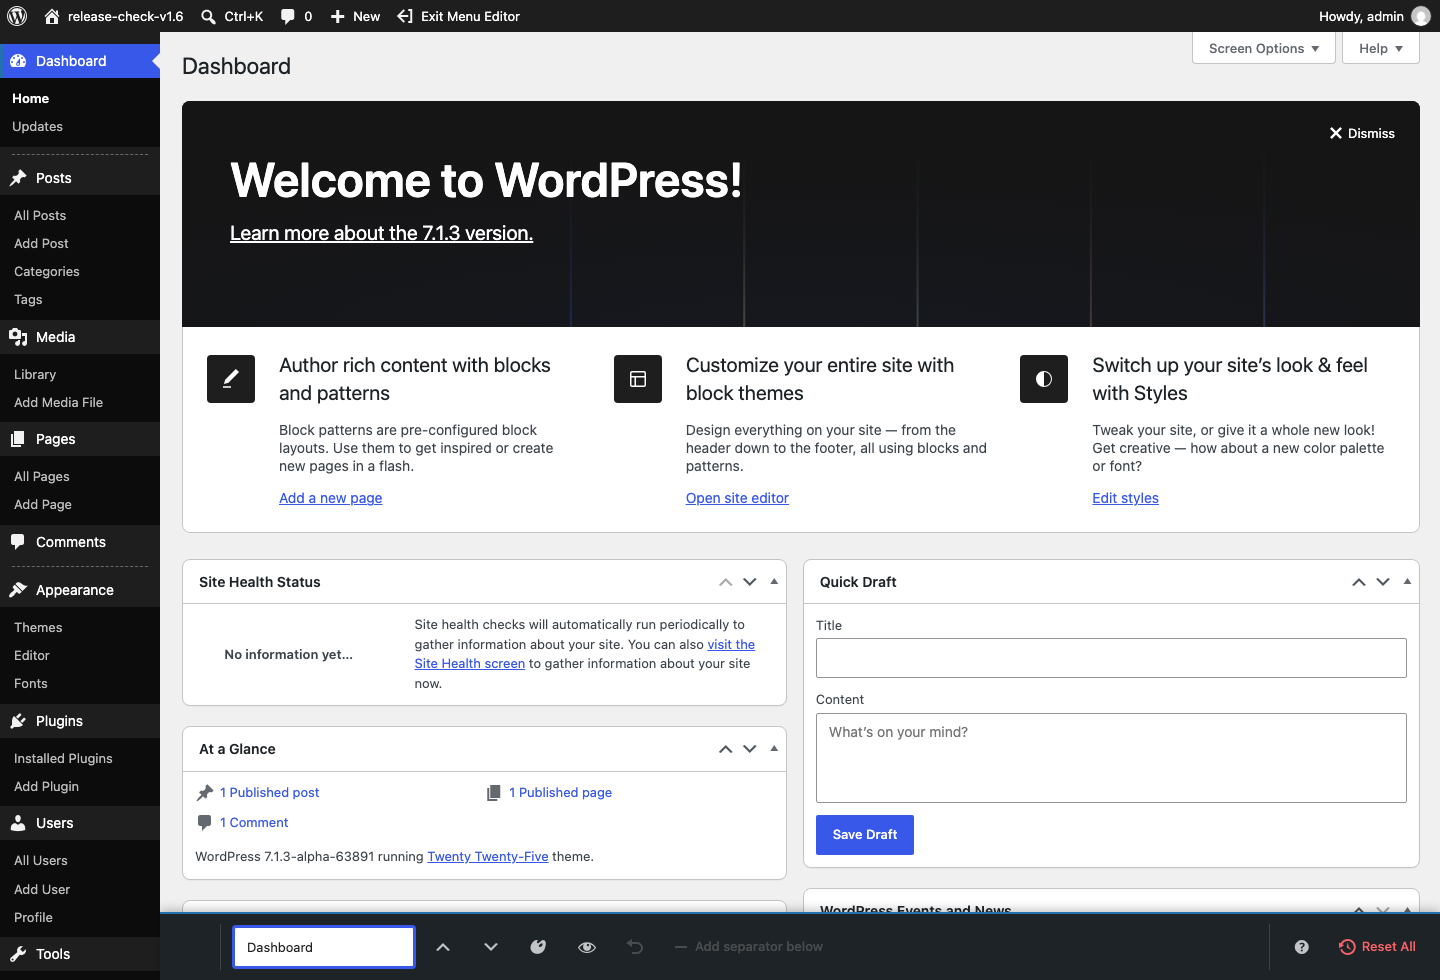
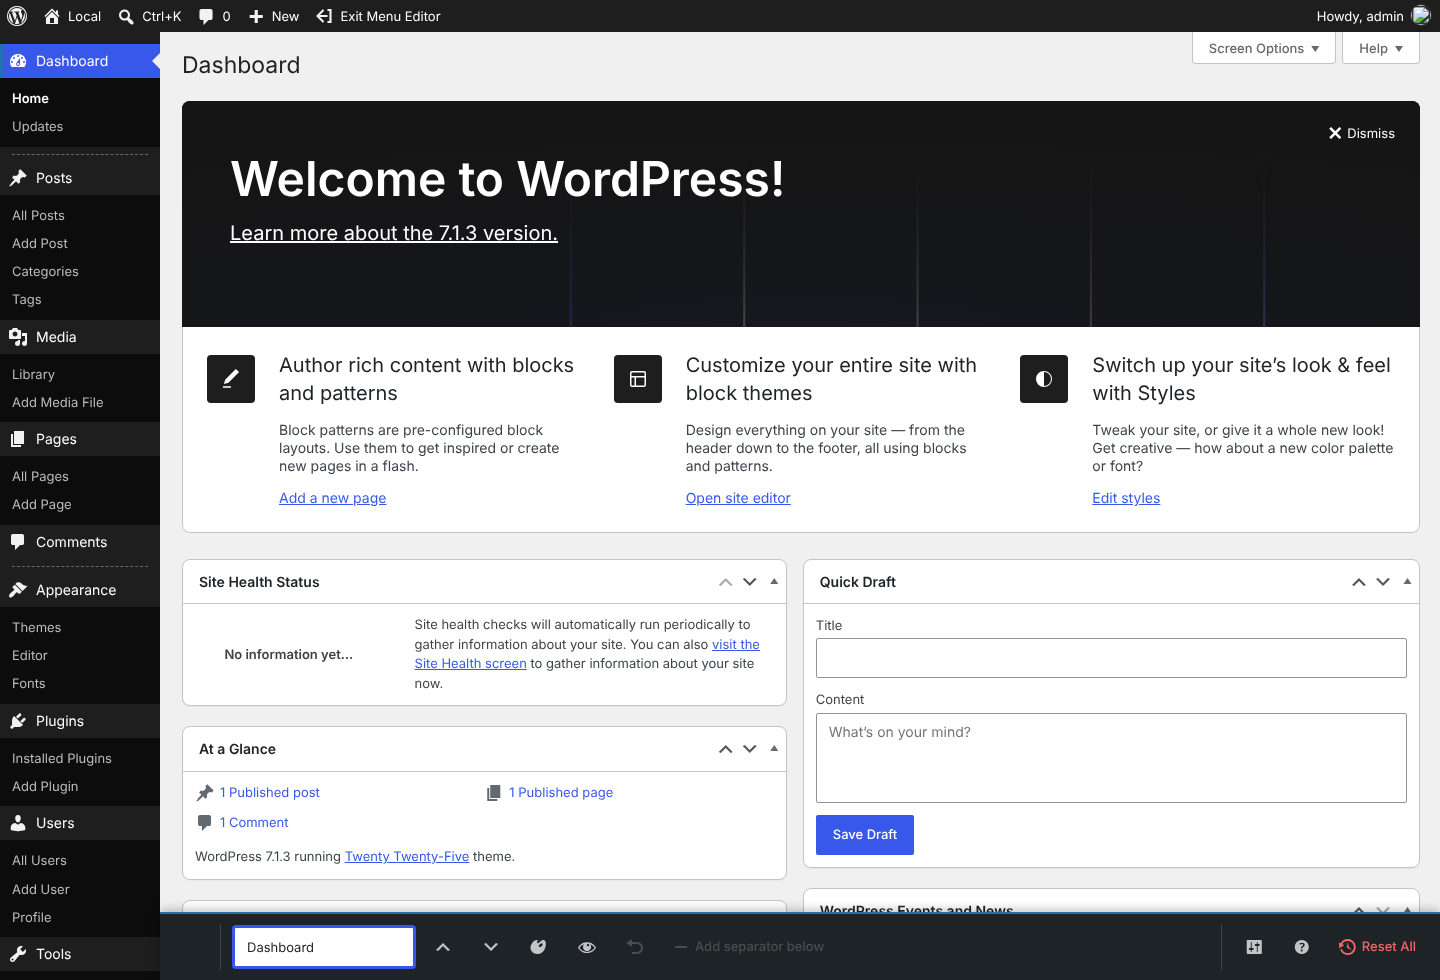
chore(release): v1.7.0
Menu width (Phase 28) ships on its own, per Dan's 2026-10-22 decision.
Version bump via bin/prep-release.sh, changelog and Upgrade Notice
(covering #202, #203, #227, #228), STATE, and recaptured directory
screenshots so the toolbar shows the new Menu settings button.

Claude-Session: https://claude.ai/code/session_01RQgBy87M1AXB8rDA2Utyi1

diff --git a/maestro-menu-editor.php b/maestro-menu-editor.php
@@ -3,7 +3,7 @@
  * Plugin Name:       Maestro: The Inline Admin Menu Editor
  * Plugin URI:        https://github.com/dknauss/Maestro/
  * Description:        In-place editing of the WordPress admin menu — rename items, reorder them, swap top-level icons, and hide items per role. Cosmetic only: hiding declutters, it does not lock access.
- * Version:           1.6.0
+ * Version:           1.7.0
  * Requires at least: 6.4
  * Requires PHP:      7.4
  * Author:            Dan Knauss
@@ -20,7 +20,7 @@ namespace Maestro;
 
 defined( 'ABSPATH' ) || exit;
 
-define( 'MAESTRO_VERSION', '1.6.0' );
+define( 'MAESTRO_VERSION', '1.7.0' );
 define( 'MAESTRO_FILE', __FILE__ );
 define( 'MAESTRO_DIR', plugin_dir_path( __FILE__ ) );
 define( 'MAESTRO_URL', plugin_dir_url( __FILE__ ) );

diff --git a/.planning/STATE.md b/.planning/STATE.md
@@ -3,9 +3,9 @@ gsd_state_version: 1.0
 milestone: v1.6.0
 milestone_name: Separator editing and post-v1.5.4 compatibility fixes
 status: in_progress
-stopped_at: "v1.6.0 is SHIPPED — tagged 2026-09-23 and live on WordPress.org the same day (api.wordpress.org: version 1.6.0, last_updated 2026-09-23, tested up to 7.1.3; verified 2026-10-21). The milestone stays open on its two unstarted phases. Order decided 2026-10-21 (D1): Phase 28 → Phase 27 → v1.7. Phase 28 is next."
-last_updated: "2026-10-21T00:00:00.000Z"
-last_activity: "2026-10-21 — Housekeeping, no feature work. Merged the four open docs PRs: network-admin research backlog (#211), readme description intro (#212), select-all role control backlog (#213), and the v1.7 Client-Site Workflow milestone plan (#217, phases 29-31, issues #214-#216). #217 needed its add/add conflict with #213 resolved on the shared todo file. Earlier today: CI Node bumped off EOL 18/20 to 24 (#222) and wp-env core pinned to WordPress 7.1.3 so the PHPUnit library matches (#223). Confirmed v1.6.0 is live on WordPress.org and that this record said otherwise. Still next: Phase 28 -> Phase 27, unless v1.7 displaces them (ROADMAP D1-D6)."
+stopped_at: "v1.7.0 release PR open (Phase 28 menu width alone, decided 2026-10-22). Merging it tags v1.7.0; the WordPress.org deploy then waits for approval. Phase 27 (users-only hiding profiles, v1.8) is next; 27-01 context in PR #230."
+last_updated: "2026-10-22T00:00:00.000Z"
+last_activity: "2026-10-22 — Phase 28 (configurable menu width) complete: #226 plan, #227 stored width + inline CSS, #228 Settings dialog and edge handle (with independent-review fixes). Dan decided width ships alone as v1.7.0; profiles become v1.8 and the Client-Site Workflow v1.9. Release PR for v1.7.0 opened."
 progress:
   total_phases: 2
   completed_phases: 0
@@ -20,7 +20,7 @@ progress:
 
 See: .planning/PROJECT.md (updated 2026-07-03)
 
-**Current focus:** v1.6.0 is shipped and live (2026-09-23). The order is decided (D1, 2026-10-21): **Phase 28 → Phase 27 → v1.7 Client-Site Workflow**. Phase 28 is next.
+**Current focus:** **v1.7.0 (menu width, Phase 28 alone)** is in its release PR (decided 2026-10-22). Then **Phase 27 → v1.8 hiding profiles (users only)**, then the Client-Site Workflow (Phases 29–31, renumbered v1.9). Order from D1 (2026-10-21) is unchanged.
 
 **Core value:** Editing the admin menu happens directly on the menu, with zero ceremony and zero risk to access.
 **Historical focus at the time this section was written:** v1.3.1 shipped and
